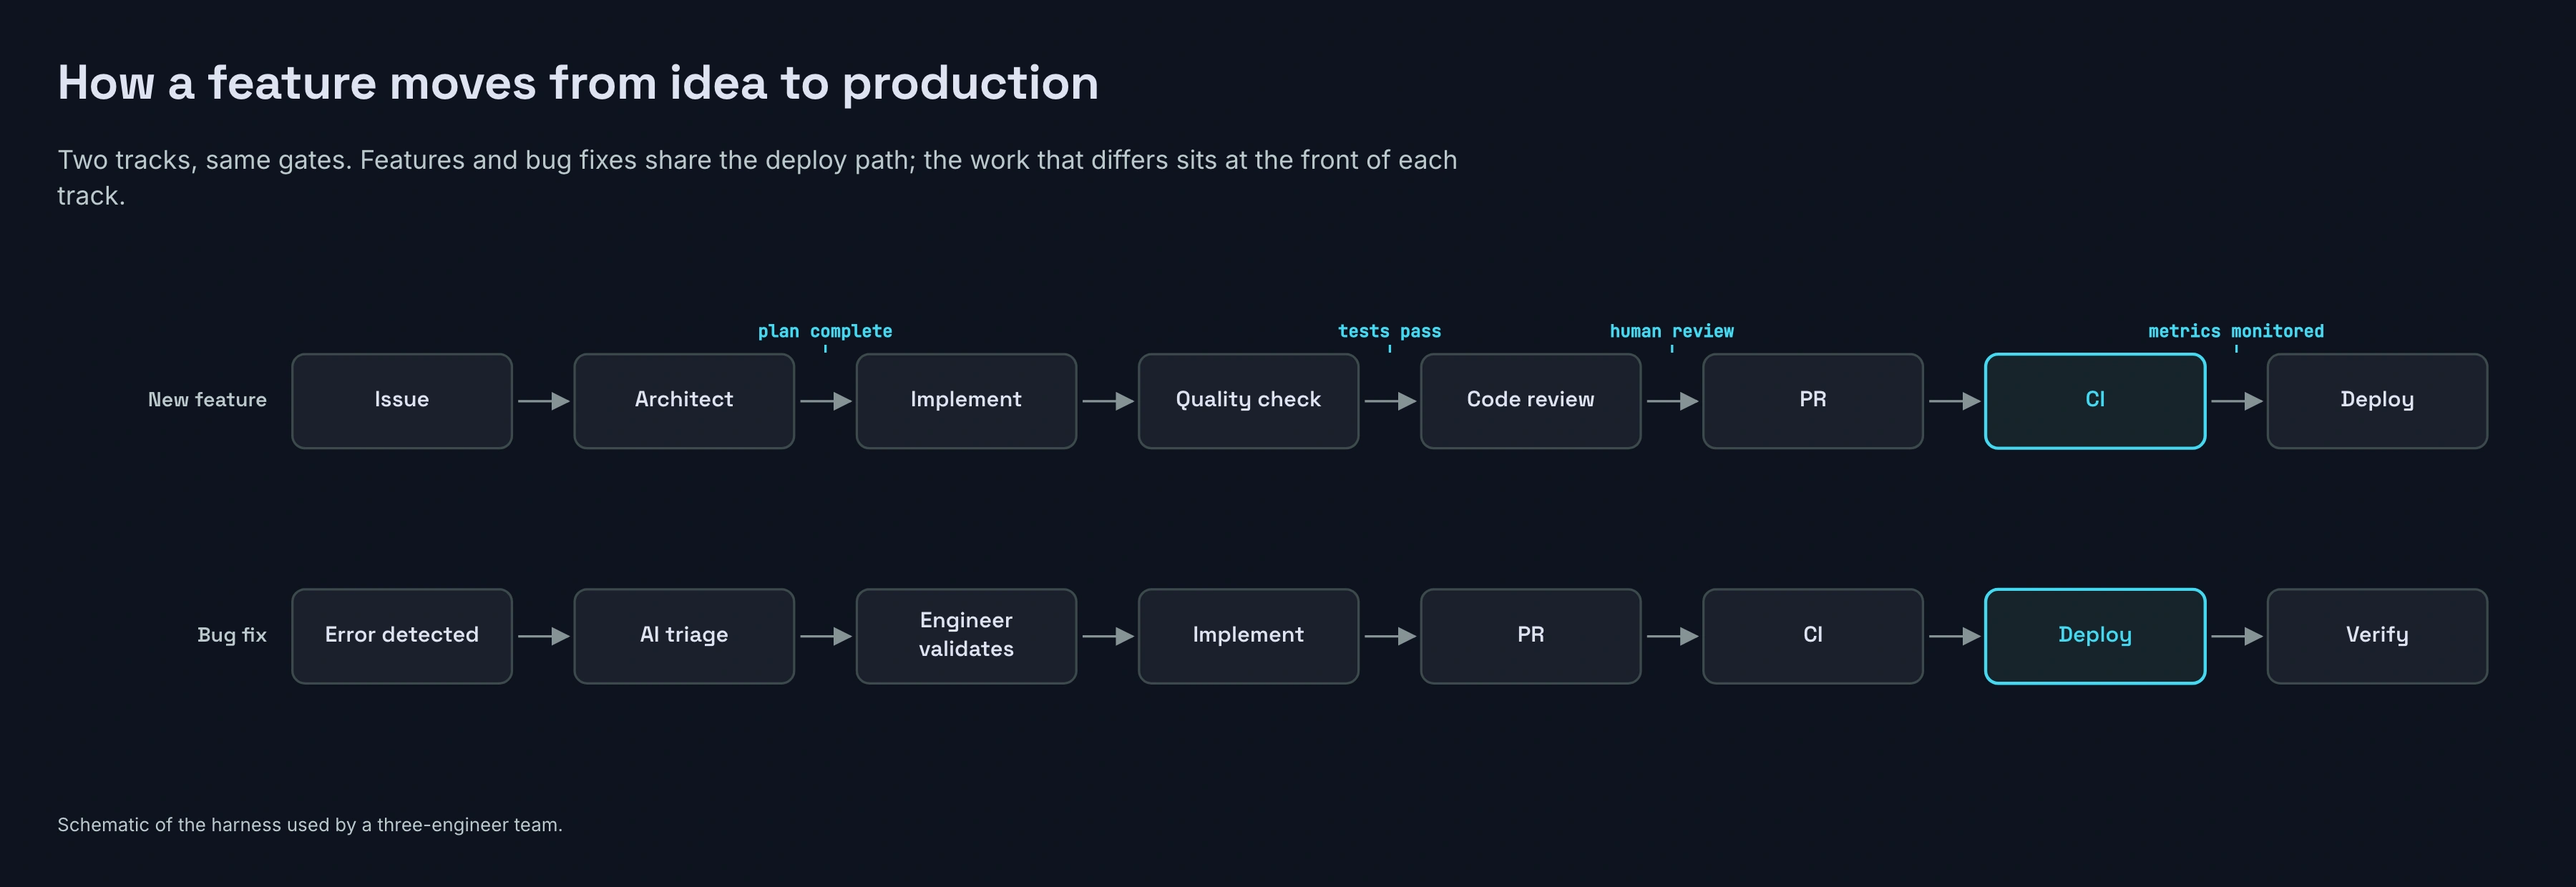
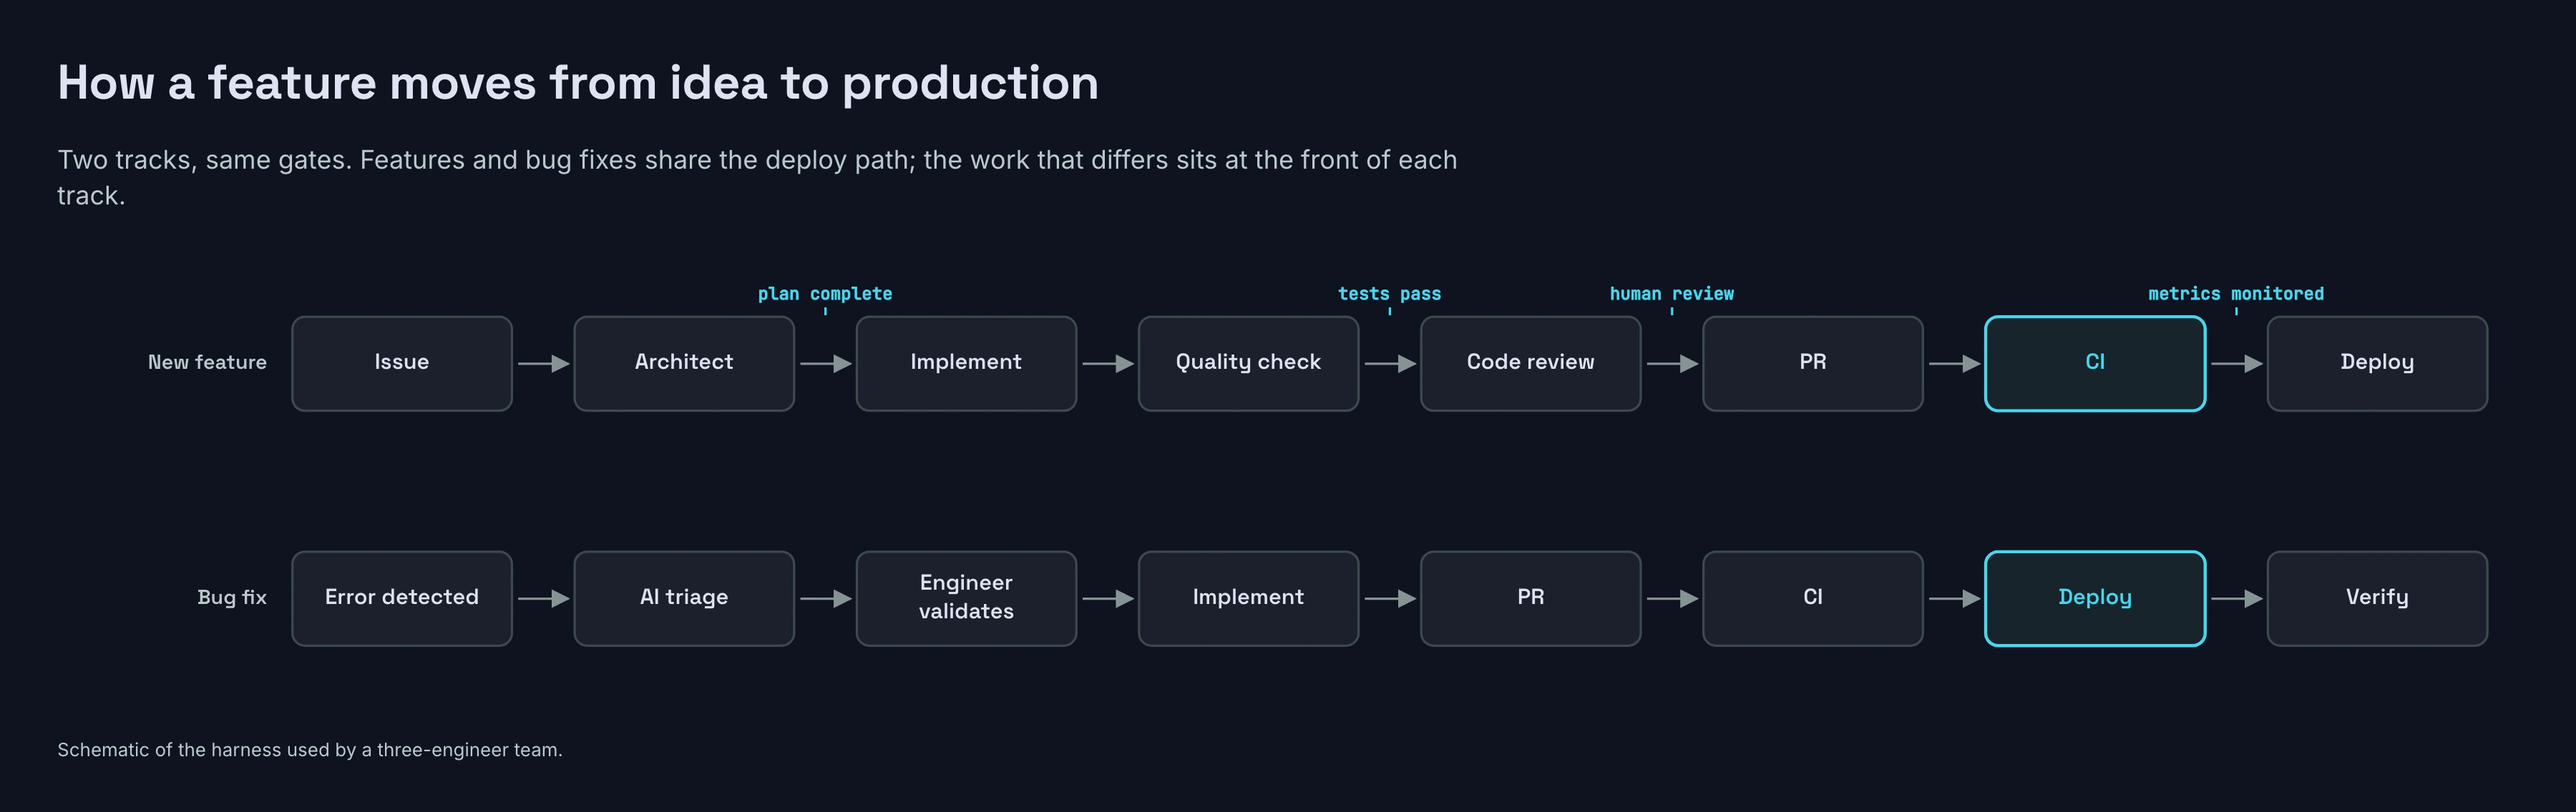
Make flow template content-sized, display pipeline at wide width
Drop min-height: 100vh so the flow template crops to its natural
height. Wrap the pipeline-flow in ::: wide so it renders at the
1080px display width rather than 720px.

diff --git a/charts/templates/flow.html b/charts/templates/flow.html
@@ -18,7 +18,7 @@
 }
 html, body { margin: 0; padding: 0; background: var(--bg); font-family: var(--font-sans); color: var(--text); -webkit-font-smoothing: antialiased; }
 #chart-container {
-  width: 100vw; min-height: 100vh;
+  width: 100vw;
   padding: 36px 40px; box-sizing: border-box;
   background: var(--bg);
   display: flex; flex-direction: column; gap: 20px;

diff --git a/articles/2026/02/2026-02-17-coordinating-ai-agents-is-the-actual-hard-part/article.md b/articles/2026/02/2026-02-17-coordinating-ai-agents-is-the-actual-hard-part/article.md
@@ -68,6 +68,7 @@ The implementation isn't a custom Python framework or a wrapper around an API. E
 
 ### The Agent Roster
 
+::: wide
 | Tier | Agent | Role | Key Constraint |
 |---|---|---|---|
 | Executive | Project Manager | Orchestrates 4-phase workflow | Never writes code |
@@ -82,6 +83,7 @@ The implementation isn't a custom Python framework or a wrapper around an API. E
 | QA | Quality Checker | Linting, formatting, types, tests | ENTIRE codebase, all 6 checks |
 | QA | Code Reviewer | Structured code review | Architecture, security, quality |
 | Documentation | Documentation Expert | API docs, README, changelog | Follows project conventions |
+:::
 
 The key insight: constraints define roles more than capabilities. The architect's definition doesn't just say "you are an architect." It explicitly prohibits code generation: no Python classes, no TypeScript interfaces, no function signatures, no import statements, no executable code of any kind. The output must be field tables, relationship diagrams, and API operation descriptions. The boundary between "what to build" and "how to build it" is enforced by prohibition, not suggestion.
 

diff --git a/articles/2026/04/2026-04-13-your-ai-first-engineering-org-probably-isnt/article.md b/articles/2026/04/2026-04-13-your-ai-first-engineering-org-probably-isnt/article.md
@@ -118,7 +118,9 @@ Bug fix path:
 
 Both paths use the same pipeline. One system. One standard.
 
+::: wide
 ![Feature and bug-fix paths converge at CI and Deploy](media/pipeline-flow.webp)
+:::
 
 ## The Results
 
